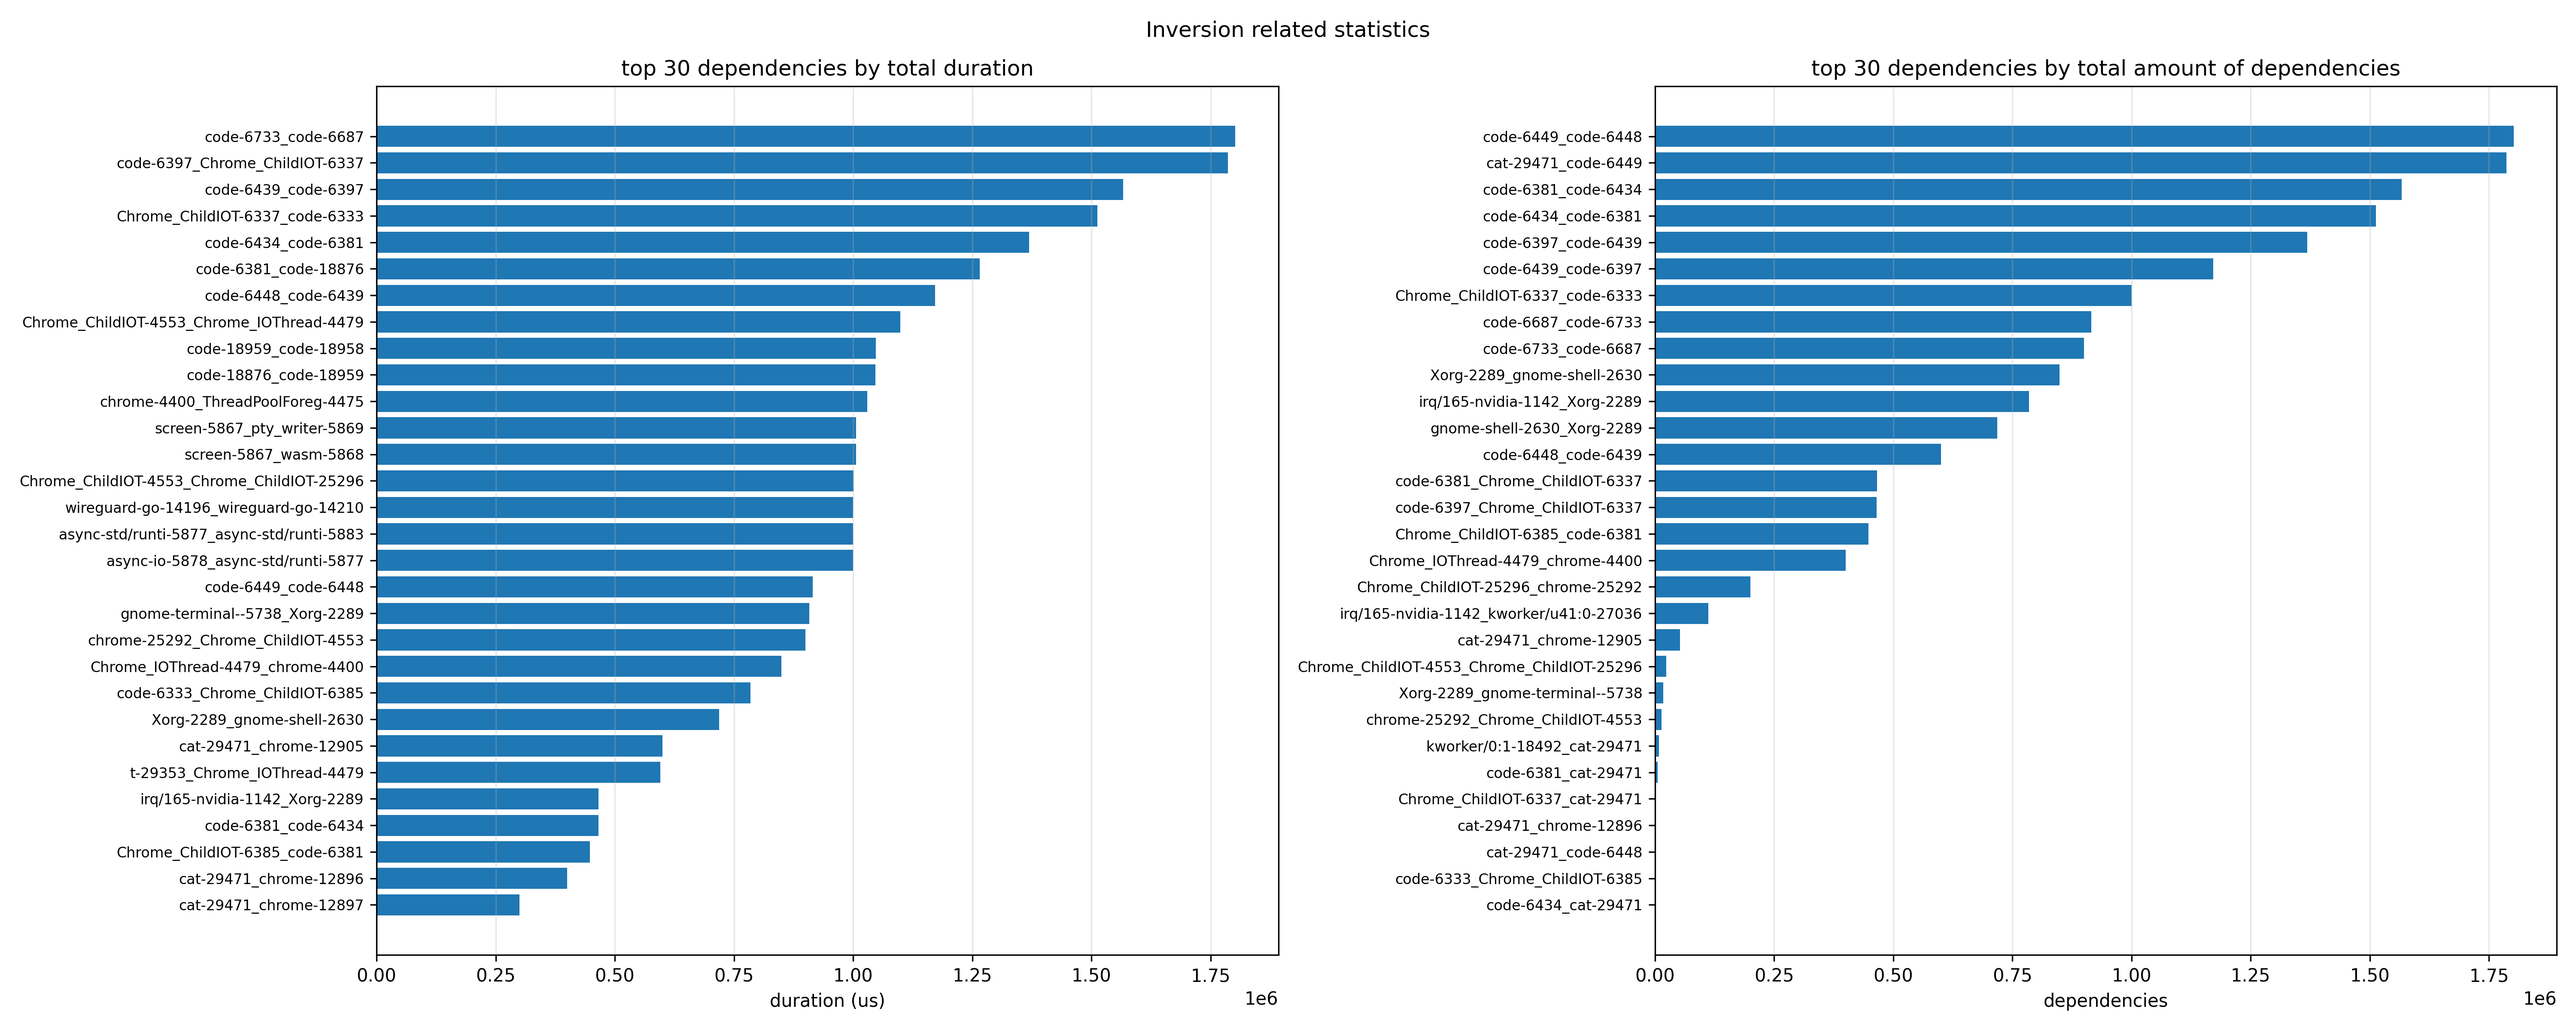
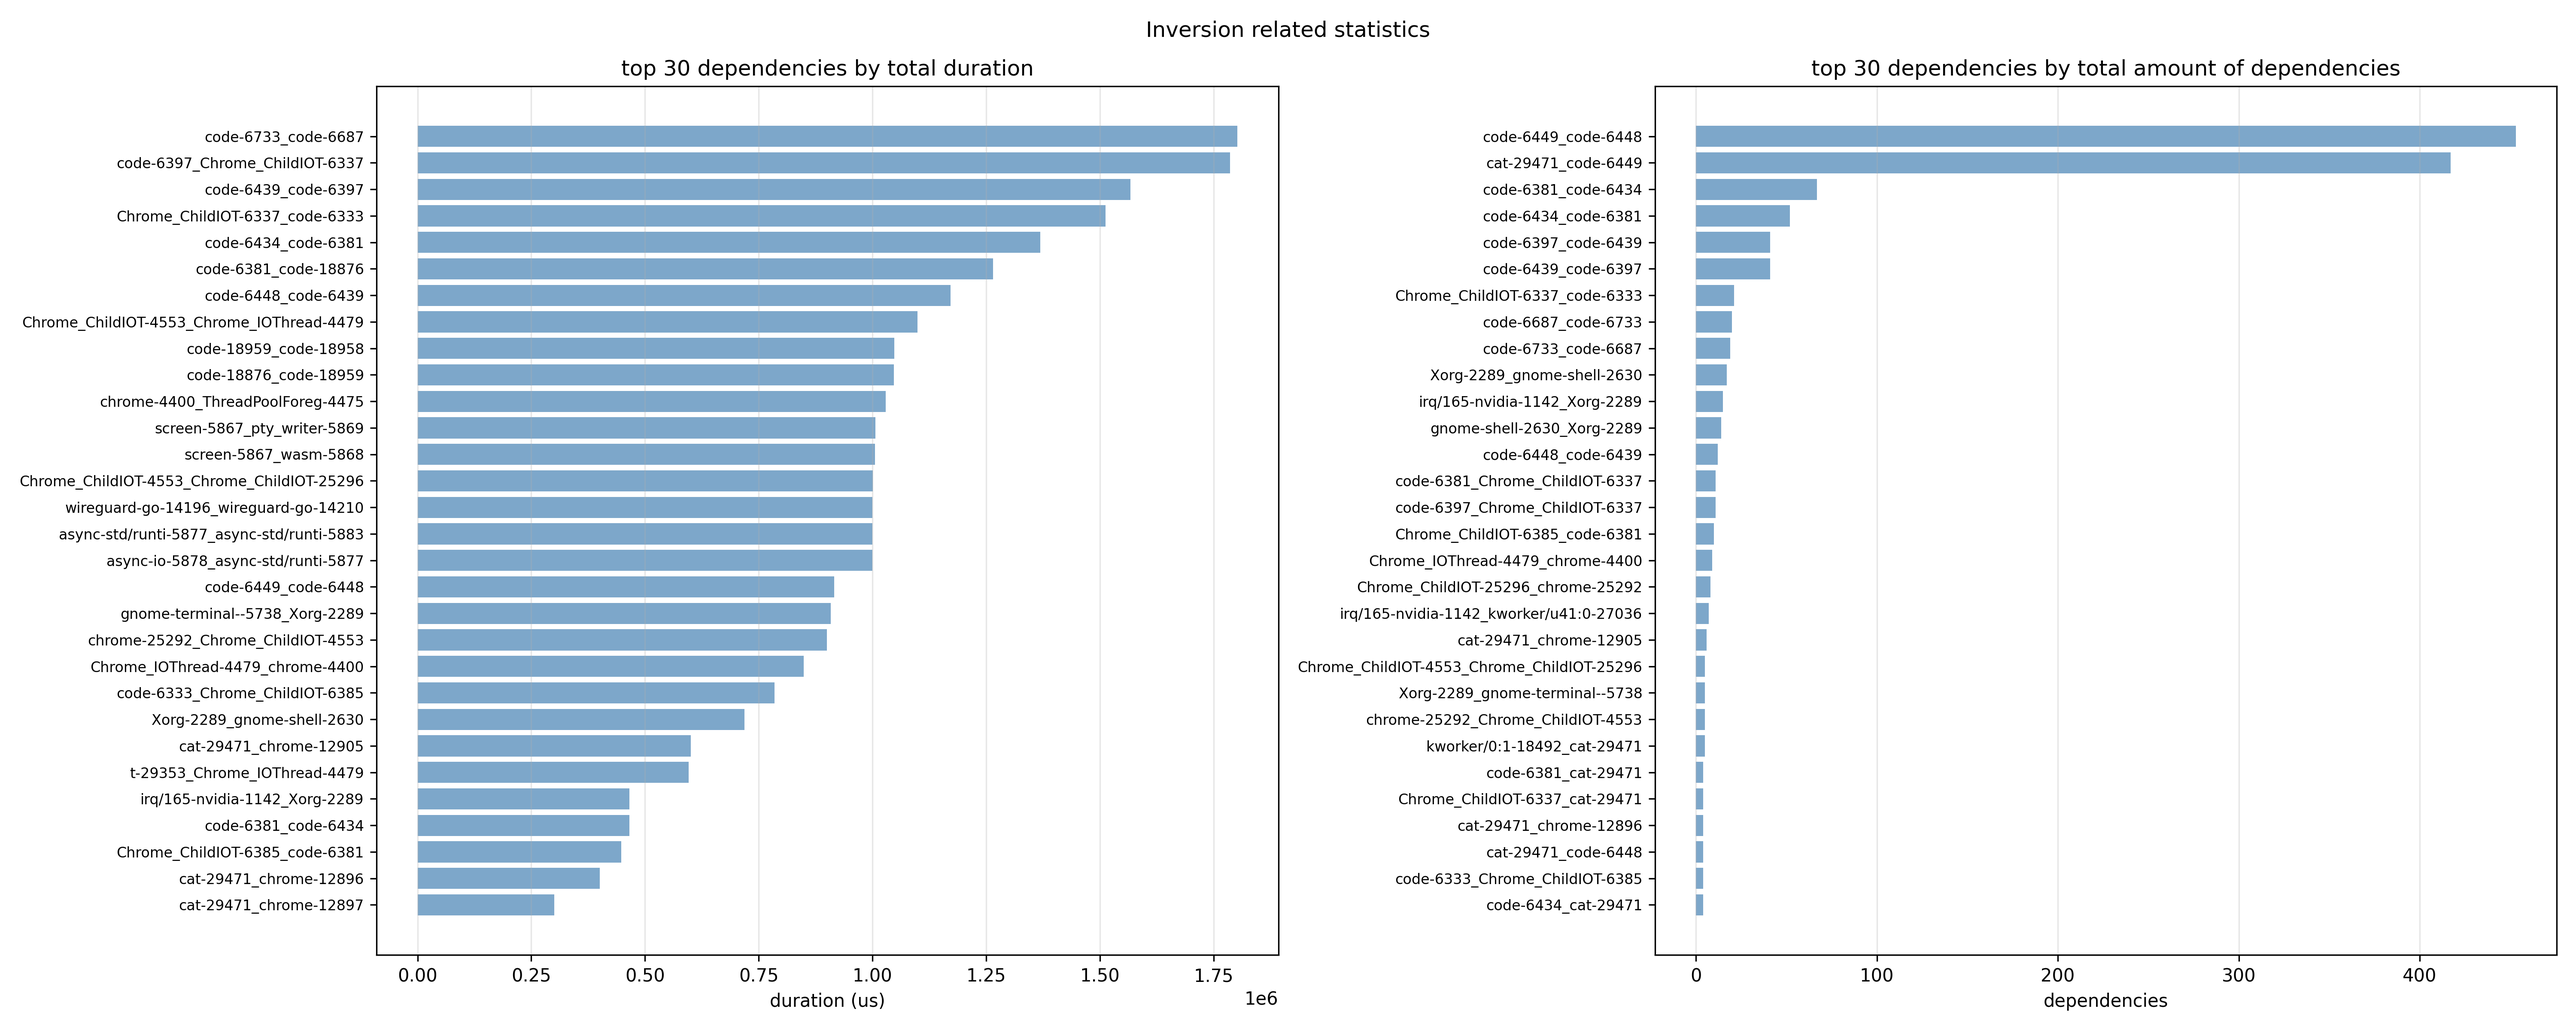
plot fix (#17)

diff --git a/src/analysers/top_dependencies.py b/src/analysers/top_dependencies.py
@@ -1,4 +1,5 @@
 import matplotlib.pyplot as plt
+import numpy as np
 import pandas as pd
 
 from pathlib import Path
@@ -78,19 +79,26 @@ class DependenciesLister:
         top_duration = df.nlargest(n_dependencies, "total_duration_us").sort_values("total_duration_us")
         top_dependencies = df.nlargest(n_dependencies, "total_dependencies").sort_values("total_dependencies")        
 
-        _fig, (ax1, ax2) = plt.subplots(1, 2, figsize=(20, 8), dpi=300)
+        _fig, (ax1, ax2) = plt.subplots(1, 2, figsize=(20, 8), dpi=300, sharex=False)
 
-        for ax, data, title, xlabel in zip([ax1, ax2], 
+        for cur_ax, data, title, xlabel, idx in zip([ax1, ax2], 
                                         [top_duration, top_dependencies],
                                         ["total duration", "total amount of dependencies"],
-                                        ["duration (us)", "dependencies"]):
+                                        ["duration (us)", "dependencies"],
+                                        [1,2]):
             
-            _bars = ax.barh(range(len(data)), data[data.columns[1]].sort_values())
-            ax.set_yticks(range(len(data)))
-            ax.set_yticklabels(data["waker_waiter_pair"], fontsize=8)
-            ax.set_xlabel(xlabel)
-            ax.set_title(f"top {n_dependencies} dependencies by {title}")
-            ax.grid(True, axis="x", alpha=0.3)
+            values = data[data.columns[idx]].sort_values().reset_index(drop=True)
+
+            for i, value in enumerate(values):
+                cur_ax.broken_barh([(0, value)], (i - 0.4, 0.8), 
+                            facecolors='steelblue', alpha=0.7)
+
+            cur_ax.set_yticks(range(len(data)))
+            cur_ax.set_yticklabels(data["waker_waiter_pair"], fontsize=8)
+            cur_ax.set_xlabel(xlabel)
+            cur_ax.set_title(f"top {n_dependencies} dependencies by {title}")
+            cur_ax.grid(True, axis="x", alpha=0.3)
+
 
         plt.suptitle(huge_title)
         plt.tight_layout()
